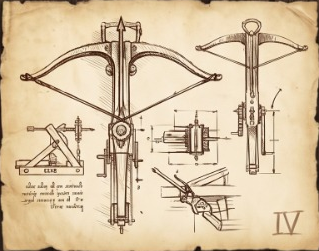
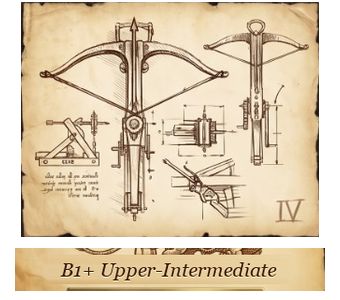
feat: attach metallic brass placards with engraved level titles directly beneath each parchment illustration

diff --git a/assets/css/main.css b/assets/css/main.css
@@ -331,91 +331,42 @@ html, body {
 .level-grid {
   display: grid;
   grid-template-columns: repeat(2, 1fr);
-  gap: 12px;
+  gap: 10px;
   padding: 4px 0 16px 0;
 }
 
 .level-card {
   position: relative;
   width: 100%;
-  display: flex;
-  flex-direction: column;
-  background: var(--card-bg, #ffffff);
-  border: 1.5px solid var(--border-color, #e2e8f0);
-  border-radius: 12px;
-  cursor: pointer;
-  overflow: hidden;
-  box-shadow: 0 4px 12px rgba(15, 23, 42, 0.08);
-  transition: transform 0.15s ease, box-shadow 0.15s ease, border-color 0.15s ease;
-  box-sizing: border-box;
-}
-
-.dark-theme .level-card {
-  background: #1e293b;
-  border-color: #334155;
-  box-shadow: 0 4px 16px rgba(0, 0, 0, 0.4);
-}
-
-.level-card:hover {
-  transform: translateY(-2px);
-  border-color: var(--primary-color, #22c55e);
-  box-shadow: 0 8px 20px rgba(0, 0, 0, 0.15);
-}
-
-.level-card:active {
-  transform: translateY(1px);
-  filter: brightness(0.98);
-}
-
-.level-card-image-wrap {
-  width: 100%;
-  aspect-ratio: 319 / 240;
-  overflow: hidden;
+  aspect-ratio: 340 / 300;
   display: flex;
   align-items: center;
   justify-content: center;
-  background: var(--card-bg, #ffffff);
+  background: transparent;
+  border: none;
+  border-radius: 8px;
+  cursor: pointer;
+  overflow: hidden;
+  padding: 0;
+  box-sizing: border-box;
+  transition: transform 0.15s ease, filter 0.15s ease;
 }
 
-.dark-theme .level-card-image-wrap {
-  background: #1e293b;
+.level-card:hover {
+  transform: translateY(-2px) scale(1.02);
+  filter: brightness(1.05);
+}
+
+.level-card:active {
+  transform: translateY(1px) scale(0.98);
+  filter: brightness(0.98);
 }
 
 .level-card-img {
   width: 100%;
   height: 100%;
-  object-fit: cover;
+  object-fit: contain;
   display: block;
-  transition: transform 0.2s ease;
-}
-
-.level-card:hover .level-card-img {
-  transform: scale(1.02);
-}
-
-/* Placard banner positioned UNDER the picture (no overlap) */
-.level-card-placard {
-  padding: 7px 6px;
-  background: linear-gradient(180deg, #fef08a 0%, #f59e0b 50%, #b45309 100%);
-  border-top: 1.5px solid #78350f;
-  text-align: center;
-  box-sizing: border-box;
-  display: flex;
-  align-items: center;
-  justify-content: center;
-  min-height: 32px;
-}
-
-.level-card-placard span {
-  font-size: 12.5px;
-  font-weight: 900;
-  color: #451a03;
-  line-height: 1.15;
-  white-space: nowrap;
-  overflow: hidden;
-  text-overflow: ellipsis;
-  letter-spacing: -0.2px;
-  text-shadow: 0 1px 0 rgba(255, 255, 255, 0.6);
 }
 
 /* Lessons Grid */

diff --git a/frontend/assets/css/main.css b/frontend/assets/css/main.css
@@ -331,91 +331,42 @@ html, body {
 .level-grid {
   display: grid;
   grid-template-columns: repeat(2, 1fr);
-  gap: 12px;
+  gap: 10px;
   padding: 4px 0 16px 0;
 }
 
 .level-card {
   position: relative;
   width: 100%;
-  display: flex;
-  flex-direction: column;
-  background: var(--card-bg, #ffffff);
-  border: 1.5px solid var(--border-color, #e2e8f0);
-  border-radius: 12px;
-  cursor: pointer;
-  overflow: hidden;
-  box-shadow: 0 4px 12px rgba(15, 23, 42, 0.08);
-  transition: transform 0.15s ease, box-shadow 0.15s ease, border-color 0.15s ease;
-  box-sizing: border-box;
-}
-
-.dark-theme .level-card {
-  background: #1e293b;
-  border-color: #334155;
-  box-shadow: 0 4px 16px rgba(0, 0, 0, 0.4);
-}
-
-.level-card:hover {
-  transform: translateY(-2px);
-  border-color: var(--primary-color, #22c55e);
-  box-shadow: 0 8px 20px rgba(0, 0, 0, 0.15);
-}
-
-.level-card:active {
-  transform: translateY(1px);
-  filter: brightness(0.98);
-}
-
-.level-card-image-wrap {
-  width: 100%;
-  aspect-ratio: 319 / 240;
-  overflow: hidden;
+  aspect-ratio: 340 / 300;
   display: flex;
   align-items: center;
   justify-content: center;
-  background: var(--card-bg, #ffffff);
+  background: transparent;
+  border: none;
+  border-radius: 8px;
+  cursor: pointer;
+  overflow: hidden;
+  padding: 0;
+  box-sizing: border-box;
+  transition: transform 0.15s ease, filter 0.15s ease;
 }
 
-.dark-theme .level-card-image-wrap {
-  background: #1e293b;
+.level-card:hover {
+  transform: translateY(-2px) scale(1.02);
+  filter: brightness(1.05);
+}
+
+.level-card:active {
+  transform: translateY(1px) scale(0.98);
+  filter: brightness(0.98);
 }
 
 .level-card-img {
   width: 100%;
   height: 100%;
-  object-fit: cover;
+  object-fit: contain;
   display: block;
-  transition: transform 0.2s ease;
-}
-
-.level-card:hover .level-card-img {
-  transform: scale(1.02);
-}
-
-/* Placard banner positioned UNDER the picture (no overlap) */
-.level-card-placard {
-  padding: 7px 6px;
-  background: linear-gradient(180deg, #fef08a 0%, #f59e0b 50%, #b45309 100%);
-  border-top: 1.5px solid #78350f;
-  text-align: center;
-  box-sizing: border-box;
-  display: flex;
-  align-items: center;
-  justify-content: center;
-  min-height: 32px;
-}
-
-.level-card-placard span {
-  font-size: 12.5px;
-  font-weight: 900;
-  color: #451a03;
-  line-height: 1.15;
-  white-space: nowrap;
-  overflow: hidden;
-  text-overflow: ellipsis;
-  letter-spacing: -0.2px;
-  text-shadow: 0 1px 0 rgba(255, 255, 255, 0.6);
 }
 
 /* Lessons Grid */

diff --git a/frontend/index.html b/frontend/index.html
@@ -16,7 +16,7 @@
     <link rel="preconnect" href="https://fonts.gstatic.com" crossorigin />
     <link href="https://fonts.googleapis.com/css2?family=Plus+Jakarta+Sans:wght@500;600;700;800&display=swap" rel="stylesheet" />
     
-    <link rel="stylesheet" href="./assets/css/main.css?v=2.7" />
+    <link rel="stylesheet" href="./assets/css/main.css?v=2.8" />
 
     <script>
       // Global splash screen dismissal
@@ -90,6 +90,6 @@
       }
     </style>
 
-    <script type="module" src="./app.js?v=2.7"></script>
+    <script type="module" src="./app.js?v=2.8"></script>
   </body>
 </html>

diff --git a/index.html b/index.html
@@ -16,7 +16,7 @@
     <link rel="preconnect" href="https://fonts.gstatic.com" crossorigin />
     <link href="https://fonts.googleapis.com/css2?family=Plus+Jakarta+Sans:wght@500;600;700;800&display=swap" rel="stylesheet" />
     
-    <link rel="stylesheet" href="./assets/css/main.css?v=2.7" />
+    <link rel="stylesheet" href="./assets/css/main.css?v=2.8" />
 
     <script>
       // Global splash screen dismissal
@@ -90,6 +90,6 @@
       }
     </style>
 
-    <script type="module" src="./app.js?v=2.7"></script>
+    <script type="module" src="./app.js?v=2.8"></script>
   </body>
 </html>

diff --git a/components/LevelGrid.js b/components/LevelGrid.js
@@ -12,12 +12,7 @@ export function renderLevelGrid(catalog) {
 
   const cardsHtml = cards.map(c => `
     <div class="level-card" data-level-id="${c.id}">
-      <div class="level-card-image-wrap">
-        <img src="${c.bg}" alt="${c.title}" class="level-card-img" />
-      </div>
-      <div class="level-card-placard">
-        <span>${c.title}</span>
-      </div>
+      <img src="${c.bg}" alt="${c.title}" class="level-card-img" />
     </div>
   `).join('');
 

diff --git a/frontend/components/LevelGrid.js b/frontend/components/LevelGrid.js
@@ -12,12 +12,7 @@ export function renderLevelGrid(catalog) {
 
   const cardsHtml = cards.map(c => `
     <div class="level-card" data-level-id="${c.id}">
-      <div class="level-card-image-wrap">
-        <img src="${c.bg}" alt="${c.title}" class="level-card-img" />
-      </div>
-      <div class="level-card-placard">
-        <span>${c.title}</span>
-      </div>
+      <img src="${c.bg}" alt="${c.title}" class="level-card-img" />
     </div>
   `).join('');
 
